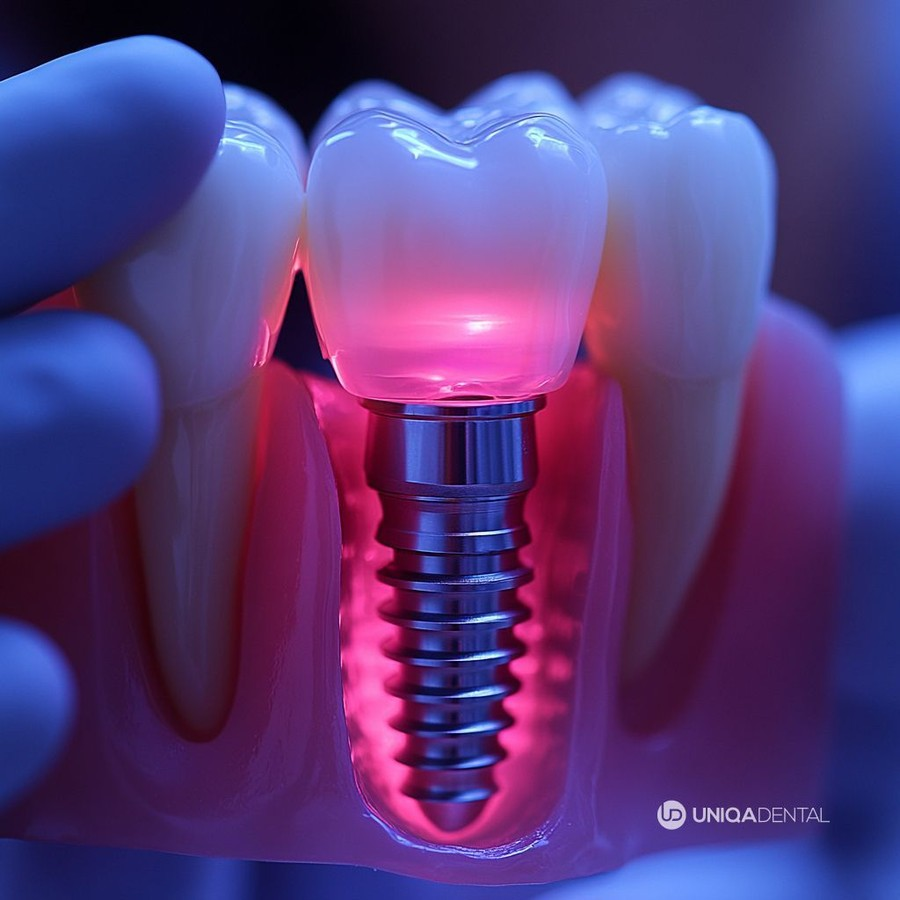
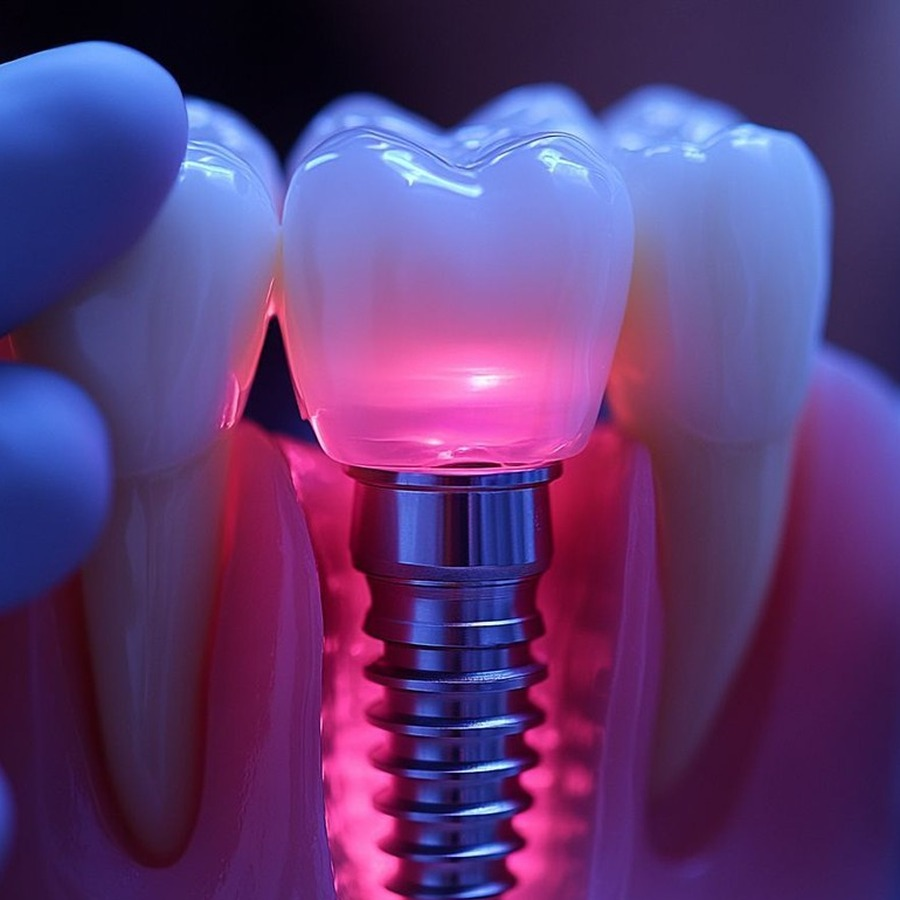
Crop implant watermark, fix hero rating text color, EST. label
- Crop out the "UNIQA DENTAL" watermark baked into svc-implant.jpg
- Hero rating line used a color meant for the dark panel only; it was
  invisible whenever it landed below the diagonal cut on white
  background. Switched to gold, which reads on both.
- Georgian hero caption now says "EST. 2015" to match the English side

diff --git a/src/routes/index.tsx b/src/routes/index.tsx
@@ -446,7 +446,7 @@ function Hero({ lang }: { lang: Lang }) {
           </Reveal>
 
           <Reveal delay={0.5}>
-            <div className="mt-12 flex items-center gap-4 text-[12px] tracking-[0.18em] text-primary-foreground/60">
+            <div className="mt-12 flex items-center gap-4 text-[12px] tracking-[0.18em] text-gold">
               <span className="hairline" style={{ background: "var(--gold)" }} />
               <span>{t("hero_rating")}</span>
             </div>
@@ -475,7 +475,7 @@ function Hero({ lang }: { lang: Lang }) {
                 {lang === "ka" ? "ყველაზე თბილი გარემო" : "The warmest environment"}
               </p>
               <p className="mt-1 text-[11px] tracking-[0.2em] text-muted-foreground">
-                {lang === "ka" ? "თბილისი · 2015" : "TBILISI · EST. 2015"}
+                {lang === "ka" ? "თბილისი · EST. 2015" : "TBILISI · EST. 2015"}
               </p>
             </div>
           </motion.div>
